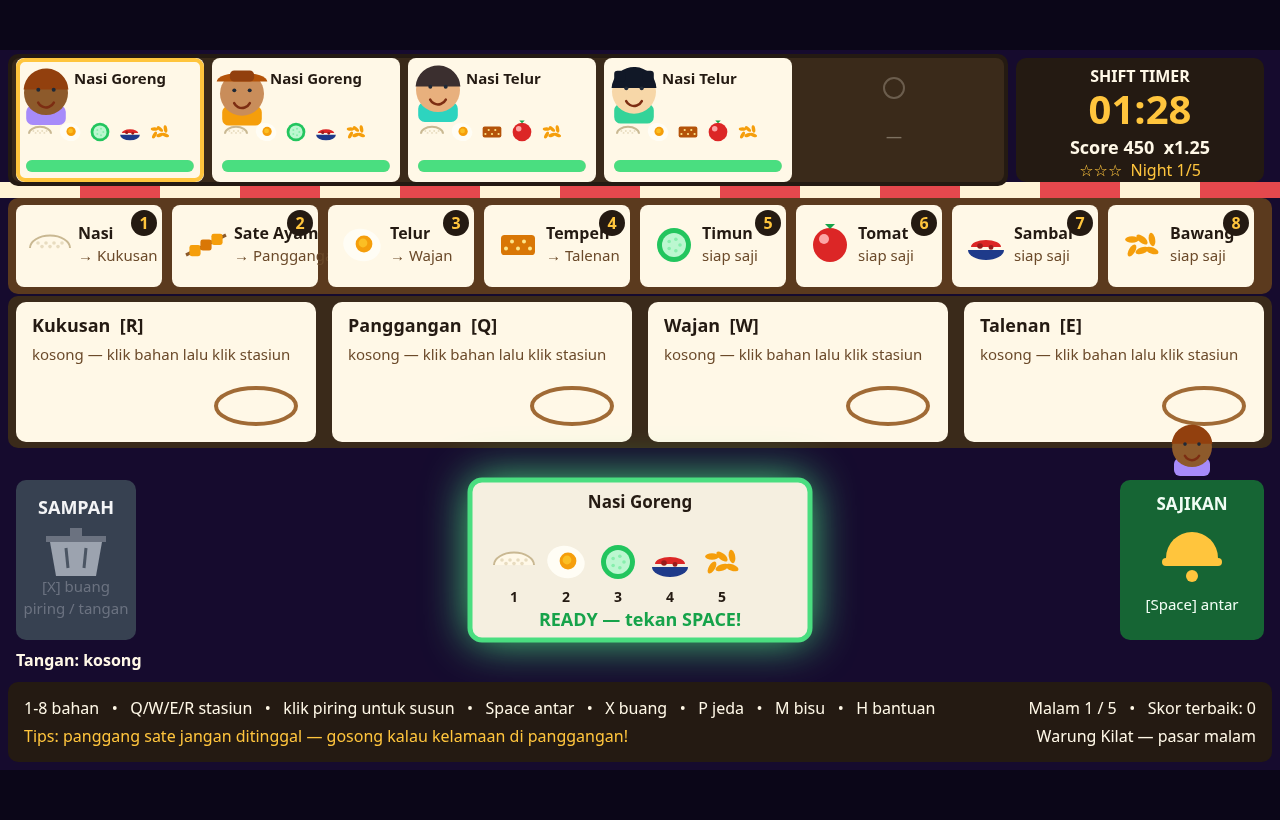
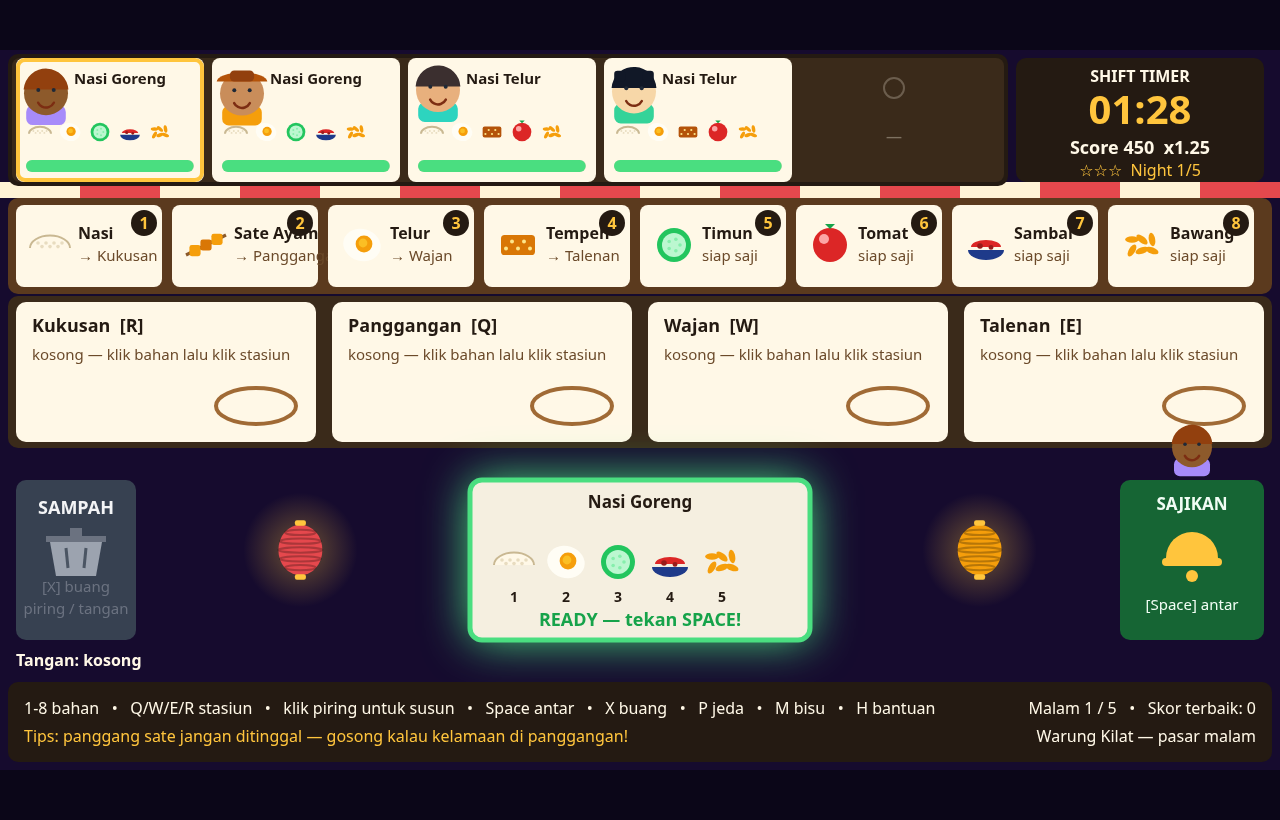
v2: hanging lanterns beside the plate (night-market look), re-captured screenshots

Changed region(s): [[0.7188, 0.6098, 0.8125, 0.7317], [0.1875, 0.6098, 0.2812, 0.7317]]

diff --git a/game/js/game.js b/game/js/game.js
@@ -258,6 +258,12 @@
       ctx.fillStyle = i % 2 ? CFG.palette.awningRed : CFG.palette.awningCream;
       ctx.fillRect(i * 80, 132, 80, 16);
     }
+    // hanging paper lanterns in the dark gaps beside the plate (night-market look)
+    if (state.scene === 'play' || state.scene === 'pause' || state.scene === 'help' || state.scene === 'summary') {
+      var sway = Math.sin(state.t * 1.2) * 3;
+      window.WK.art.drawLantern(ctx, 300 + sway, 500, 22, '#e5484d', true);
+      window.WK.art.drawLantern(ctx, 980 - sway, 500, 22, '#f59e0b', true);
+    }
     if (state.scene === 'title') {
       window.WK.scenes.drawTitle(ctx, state, state.t);
     } else if (state.scene === 'help') {
